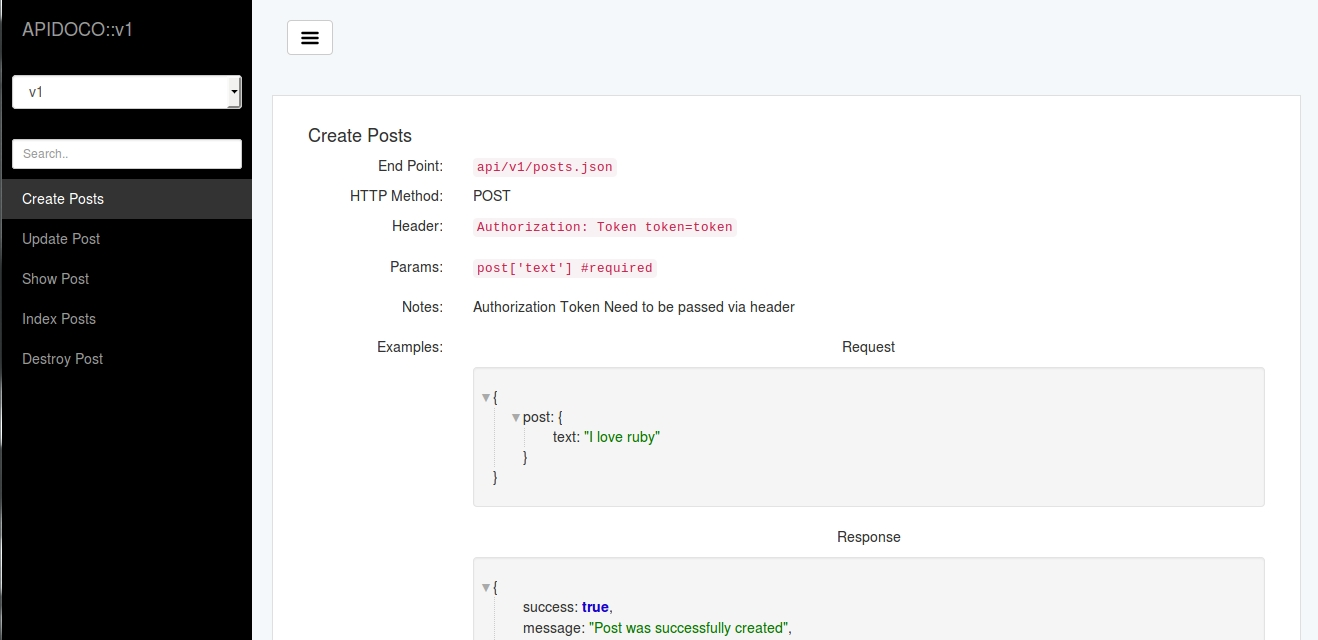
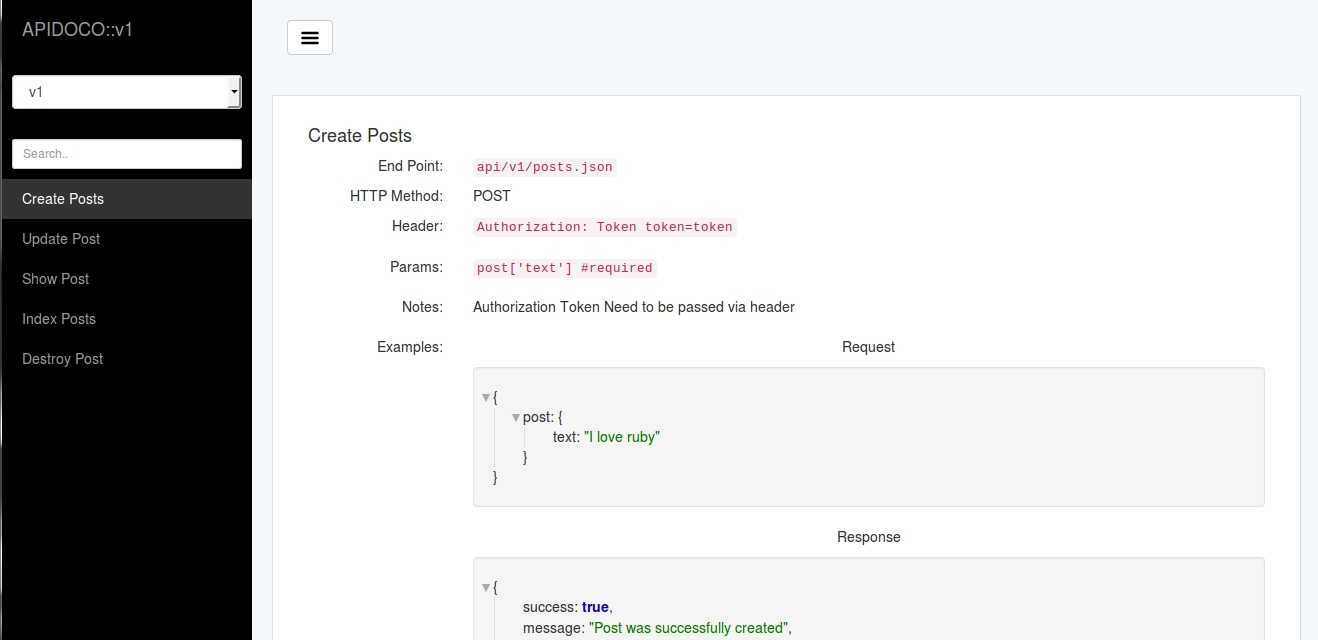
removed angular scroll mapping, using quotes in sample request keys, using panels for rendering sample requests, added minified screenshot image (#31)

diff --git a/app/assets/javascripts/apidoco/directives/angular_scroll.min.js b/app/assets/javascripts/apidoco/directives/angular_scroll.min.js
@@ -1,2 +1,1 @@
 var duScrollDefaultEasing=function(e){"use strict";return.5>e?Math.pow(2*e,2)/2:1-Math.pow(2*(1-e),2)/2},duScroll=angular.module("duScroll",["duScroll.scrollspy","duScroll.smoothScroll","duScroll.scrollContainer","duScroll.spyContext","duScroll.scrollHelpers"]).value("duScrollDuration",350).value("duScrollSpyWait",100).value("duScrollGreedy",!1).value("duScrollOffset",0).value("duScrollEasing",duScrollDefaultEasing).value("duScrollCancelOnEvents","scroll mousedown mousewheel touchmove keydown").value("duScrollBottomSpy",!1).value("duScrollActiveClass","active");"undefined"!=typeof module&&module&&module.exports&&(module.exports=duScroll),angular.module("duScroll.scrollHelpers",["duScroll.requestAnimation"]).run(["$window","$q","cancelAnimation","requestAnimation","duScrollEasing","duScrollDuration","duScrollOffset","duScrollCancelOnEvents",function(e,t,n,r,o,l,u,c){"use strict";var i={},a=function(e){return"undefined"!=typeof HTMLDocument&&e instanceof HTMLDocument||e.nodeType&&e.nodeType===e.DOCUMENT_NODE},s=function(e){return"undefined"!=typeof HTMLElement&&e instanceof HTMLElement||e.nodeType&&e.nodeType===e.ELEMENT_NODE},d=function(e){return s(e)||a(e)?e:e[0]};i.duScrollTo=function(t,n,r,o){var l;if(angular.isElement(t)?l=this.duScrollToElement:angular.isDefined(r)&&(l=this.duScrollToAnimated),l)return l.apply(this,arguments);var u=d(this);return a(u)?e.scrollTo(t,n):(u.scrollLeft=t,void(u.scrollTop=n))};var f,m;i.duScrollToAnimated=function(e,l,u,i){u&&!i&&(i=o);var a=this.duScrollLeft(),s=this.duScrollTop(),d=Math.round(e-a),p=Math.round(l-s),S=null,g=0,v=this,h=function(e){(!e||g&&e.which>0)&&(c&&v.unbind(c,h),n(f),m.reject(),f=null)};if(f&&h(),m=t.defer(),0===u||!d&&!p)return 0===u&&v.duScrollTo(e,l),m.resolve(),m.promise;var y=function(e){null===S&&(S=e),g=e-S;var t=g>=u?1:i(g/u);v.scrollTo(a+Math.ceil(d*t),s+Math.ceil(p*t)),1>t?f=r(y):(c&&v.unbind(c,h),f=null,m.resolve())};return v.duScrollTo(a,s),c&&v.bind(c,h),f=r(y),m.promise},i.duScrollToElement=function(e,t,n,r){var o=d(this);(!angular.isNumber(t)||isNaN(t))&&(t=u);var l=this.duScrollTop()+d(e).getBoundingClientRect().top-t;return s(o)&&(l-=o.getBoundingClientRect().top),this.duScrollTo(0,l,n,r)},i.duScrollLeft=function(t,n,r){if(angular.isNumber(t))return this.duScrollTo(t,this.duScrollTop(),n,r);var o=d(this);return a(o)?e.scrollX||document.documentElement.scrollLeft||document.body.scrollLeft:o.scrollLeft},i.duScrollTop=function(t,n,r){if(angular.isNumber(t))return this.duScrollTo(this.duScrollLeft(),t,n,r);var o=d(this);return a(o)?e.scrollY||document.documentElement.scrollTop||document.body.scrollTop:o.scrollTop},i.duScrollToElementAnimated=function(e,t,n,r){return this.duScrollToElement(e,t,n||l,r)},i.duScrollTopAnimated=function(e,t,n){return this.duScrollTop(e,t||l,n)},i.duScrollLeftAnimated=function(e,t,n){return this.duScrollLeft(e,t||l,n)},angular.forEach(i,function(e,t){angular.element.prototype[t]=e;var n=t.replace(/^duScroll/,"scroll");angular.isUndefined(angular.element.prototype[n])&&(angular.element.prototype[n]=e)})}]),angular.module("duScroll.polyfill",[]).factory("polyfill",["$window",function(e){"use strict";var t=["webkit","moz","o","ms"];return function(n,r){if(e[n])return e[n];for(var o,l=n.substr(0,1).toUpperCase()+n.substr(1),u=0;u<t.length;u++)if(o=t[u]+l,e[o])return e[o];return r}}]),angular.module("duScroll.requestAnimation",["duScroll.polyfill"]).factory("requestAnimation",["polyfill","$timeout",function(e,t){"use strict";var n=0,r=function(e,r){var o=(new Date).getTime(),l=Math.max(0,16-(o-n)),u=t(function(){e(o+l)},l);return n=o+l,u};return e("requestAnimationFrame",r)}]).factory("cancelAnimation",["polyfill","$timeout",function(e,t){"use strict";var n=function(e){t.cancel(e)};return e("cancelAnimationFrame",n)}]),angular.module("duScroll.spyAPI",["duScroll.scrollContainerAPI"]).factory("spyAPI",["$rootScope","$timeout","$window","$document","scrollContainerAPI","duScrollGreedy","duScrollSpyWait","duScrollBottomSpy","duScrollActiveClass",function(e,t,n,r,o,l,u,c,i){"use strict";var a=function(o){var a=!1,s=!1,d=function(){s=!1;var t,u=o.container,a=u[0],d=0;if("undefined"!=typeof HTMLElement&&a instanceof HTMLElement||a.nodeType&&a.nodeType===a.ELEMENT_NODE)d=a.getBoundingClientRect().top,t=Math.round(a.scrollTop+a.clientHeight)>=a.scrollHeight;else{var f=r[0].body.scrollHeight||r[0].documentElement.scrollHeight;t=Math.round(n.pageYOffset+n.innerHeight)>=f}var m,p,S,g,v,h,y=c&&t?"bottom":"top";for(g=o.spies,p=o.currentlyActive,S=void 0,m=0;m<g.length;m++)v=g[m],h=v.getTargetPosition(),h&&(c&&t||h.top+v.offset-d<20&&(l||-1*h.top+d)<h.height)&&(!S||S[y]<h[y])&&(S={spy:v},S[y]=h[y]);S&&(S=S.spy),p===S||l&&!S||(p&&(p.$element.removeClass(i),e.$broadcast("duScrollspy:becameInactive",p.$element,angular.element(p.getTargetElement()))),S&&(S.$element.addClass(i),e.$broadcast("duScrollspy:becameActive",S.$element,angular.element(S.getTargetElement()))),o.currentlyActive=S)};return u?function(){a?s=!0:(d(),a=t(function(){a=!1,s&&d()},u,!1))}:d},s={},d=function(e){var t=e.$id,n={spies:[]};return n.handler=a(n),s[t]=n,e.$on("$destroy",function(){f(e)}),t},f=function(e){var t=e.$id,n=s[t],r=n.container;r&&r.off("scroll",n.handler),delete s[t]},m=d(e),p=function(e){return s[e.$id]?s[e.$id]:e.$parent?p(e.$parent):s[m]},S=function(e){var t,n,r=e.$scope;if(r)return p(r);for(n in s)if(t=s[n],-1!==t.spies.indexOf(e))return t},g=function(e){for(;e.parentNode;)if(e=e.parentNode,e===document)return!0;return!1},v=function(e){var t=S(e);t&&(t.spies.push(e),t.container&&g(t.container)||(t.container&&t.container.off("scroll",t.handler),t.container=o.getContainer(e.$scope),t.container.on("scroll",t.handler).triggerHandler("scroll")))},h=function(t){var n=S(t);t===n.currentlyActive&&(e.$broadcast("duScrollspy:becameInactive",n.currentlyActive.$element),n.currentlyActive=null);var r=n.spies.indexOf(t);-1!==r&&n.spies.splice(r,1),t.$element=null};return{addSpy:v,removeSpy:h,createContext:d,destroyContext:f,getContextForScope:p}}]),angular.module("duScroll.scrollContainerAPI",[]).factory("scrollContainerAPI",["$document",function(e){"use strict";var t={},n=function(e,n){var r=e.$id;return t[r]=n,r},r=function(e){return t[e.$id]?e.$id:e.$parent?r(e.$parent):void 0},o=function(n){var o=r(n);return o?t[o]:e},l=function(e){var n=r(e);n&&delete t[n]};return{getContainerId:r,getContainer:o,setContainer:n,removeContainer:l}}]),angular.module("duScroll.smoothScroll",["duScroll.scrollHelpers","duScroll.scrollContainerAPI"]).directive("duSmoothScroll",["duScrollDuration","duScrollOffset","scrollContainerAPI",function(e,t,n){"use strict";return{link:function(r,o,l){o.on("click",function(o){if(l.href&&-1!==l.href.indexOf("#")||""!==l.duSmoothScroll){var u=l.href?l.href.replace(/.*(?=#[^\s]+$)/,"").substring(1):l.duSmoothScroll,c=document.getElementById(u)||document.getElementsByName(u)[0];if(c&&c.getBoundingClientRect){o.stopPropagation&&o.stopPropagation(),o.preventDefault&&o.preventDefault();var i=l.offset?parseInt(l.offset,10):t,a=l.duration?parseInt(l.duration,10):e,s=n.getContainer(r);s.duScrollToElement(angular.element(c),isNaN(i)?0:i,isNaN(a)?0:a)}}})}}}]),angular.module("duScroll.spyContext",["duScroll.spyAPI"]).directive("duSpyContext",["spyAPI",function(e){"use strict";return{restrict:"A",scope:!0,compile:function(t,n,r){return{pre:function(t,n,r,o){e.createContext(t)}}}}}]),angular.module("duScroll.scrollContainer",["duScroll.scrollContainerAPI"]).directive("duScrollContainer",["scrollContainerAPI",function(e){"use strict";return{restrict:"A",scope:!0,compile:function(t,n,r){return{pre:function(t,n,r,o){r.$observe("duScrollContainer",function(r){angular.isString(r)&&(r=document.getElementById(r)),r=angular.isElement(r)?angular.element(r):n,e.setContainer(t,r),t.$on("$destroy",function(){e.removeContainer(t)})})}}}}}]),angular.module("duScroll.scrollspy",["duScroll.spyAPI"]).directive("duScrollspy",["spyAPI","duScrollOffset","$timeout","$rootScope",function(e,t,n,r){"use strict";var o=function(e,t,n,r){angular.isElement(e)?this.target=e:angular.isString(e)&&(this.targetId=e),this.$scope=t,this.$element=n,this.offset=r};return o.prototype.getTargetElement=function(){return!this.target&&this.targetId&&(this.target=document.getElementById(this.targetId)||document.getElementsByName(this.targetId)[0]),this.target},o.prototype.getTargetPosition=function(){var e=this.getTargetElement();return e?e.getBoundingClientRect():void 0},o.prototype.flushTargetCache=function(){this.targetId&&(this.target=void 0)},{link:function(l,u,c){var i,a=c.ngHref||c.href;if(a&&-1!==a.indexOf("#")?i=a.replace(/.*(?=#[^\s]+$)/,"").substring(1):c.duScrollspy?i=c.duScrollspy:c.duSmoothScroll&&(i=c.duSmoothScroll),i){var s=n(function(){var n=new o(i,l,u,-(c.offset?parseInt(c.offset,10):t));e.addSpy(n),l.$on("$locationChangeSuccess",n.flushTargetCache.bind(n));var a=r.$on("$stateChangeSuccess",n.flushTargetCache.bind(n));l.$on("$destroy",function(){e.removeSpy(n),a()})},0,!1);l.$on("$destroy",function(){n.cancel(s)})}}}}]);
-//# sourceMappingURL=angular-scroll.min.js.map

diff --git a/app/assets/javascripts/apidoco/directives/jq_json_viewer.js b/app/assets/javascripts/apidoco/directives/jq_json_viewer.js
@@ -7,7 +7,7 @@ angular.module('apiDocoApp').directive('jqJsonViewer', [function() {
       data: "="
     },
     link: function(scope, elem, attrs) {
-      $(elem).jsonViewer(scope.data);
+      $(elem).jsonViewer(scope.data, { withQuotes: true });
     }
   };
 }]);
